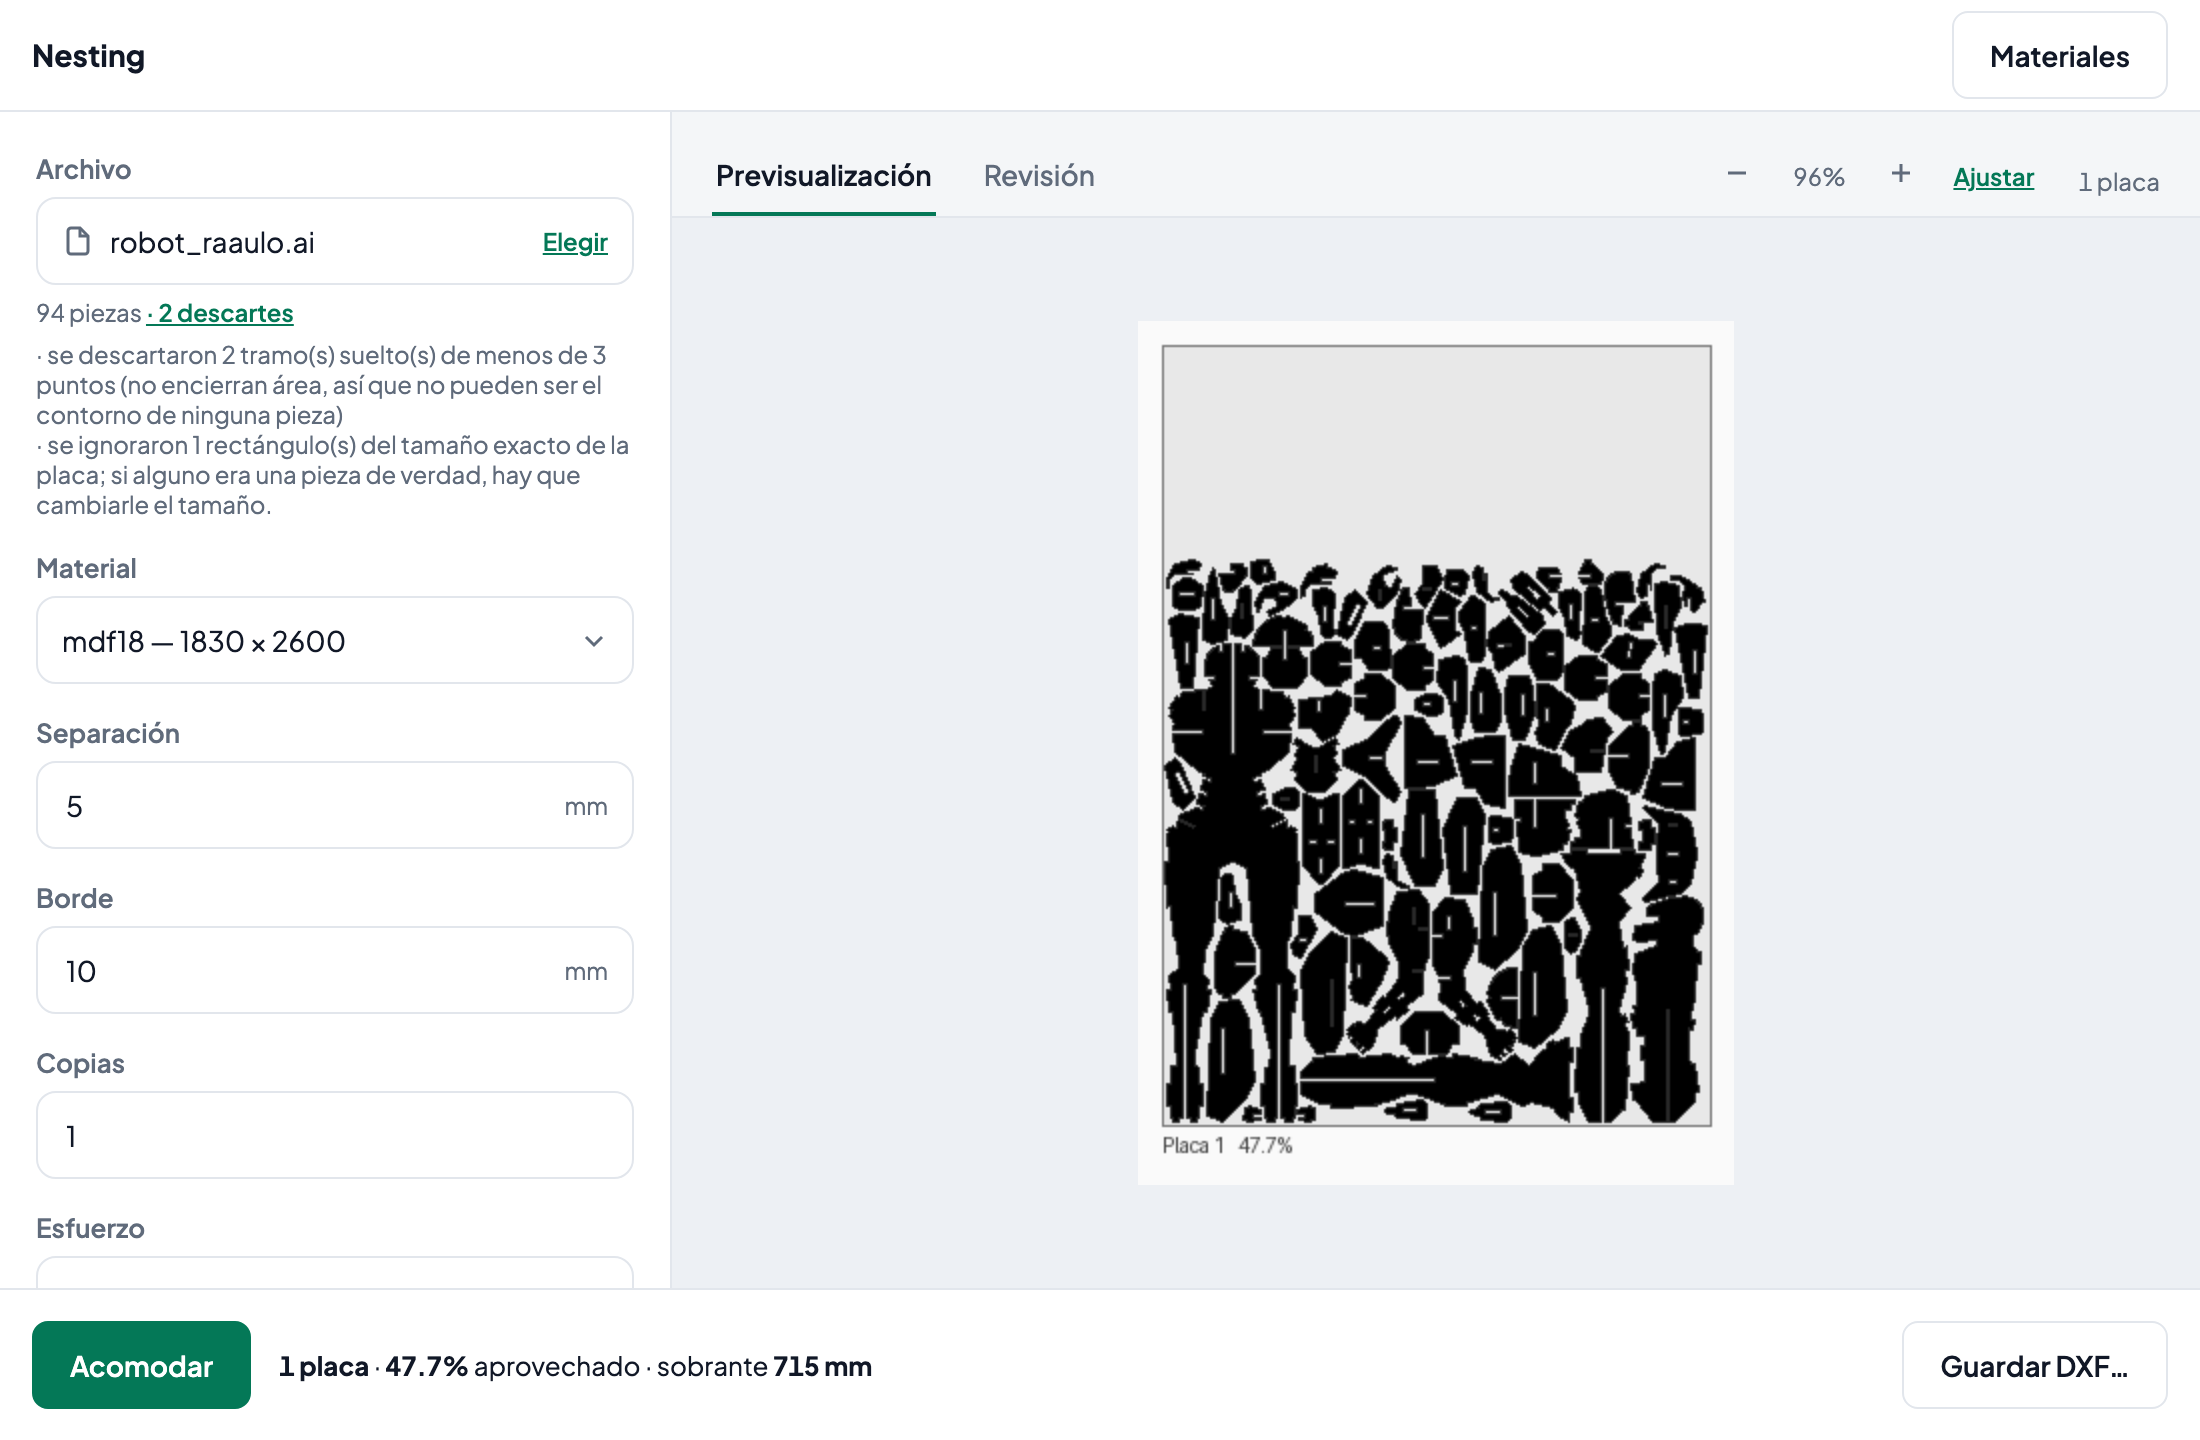
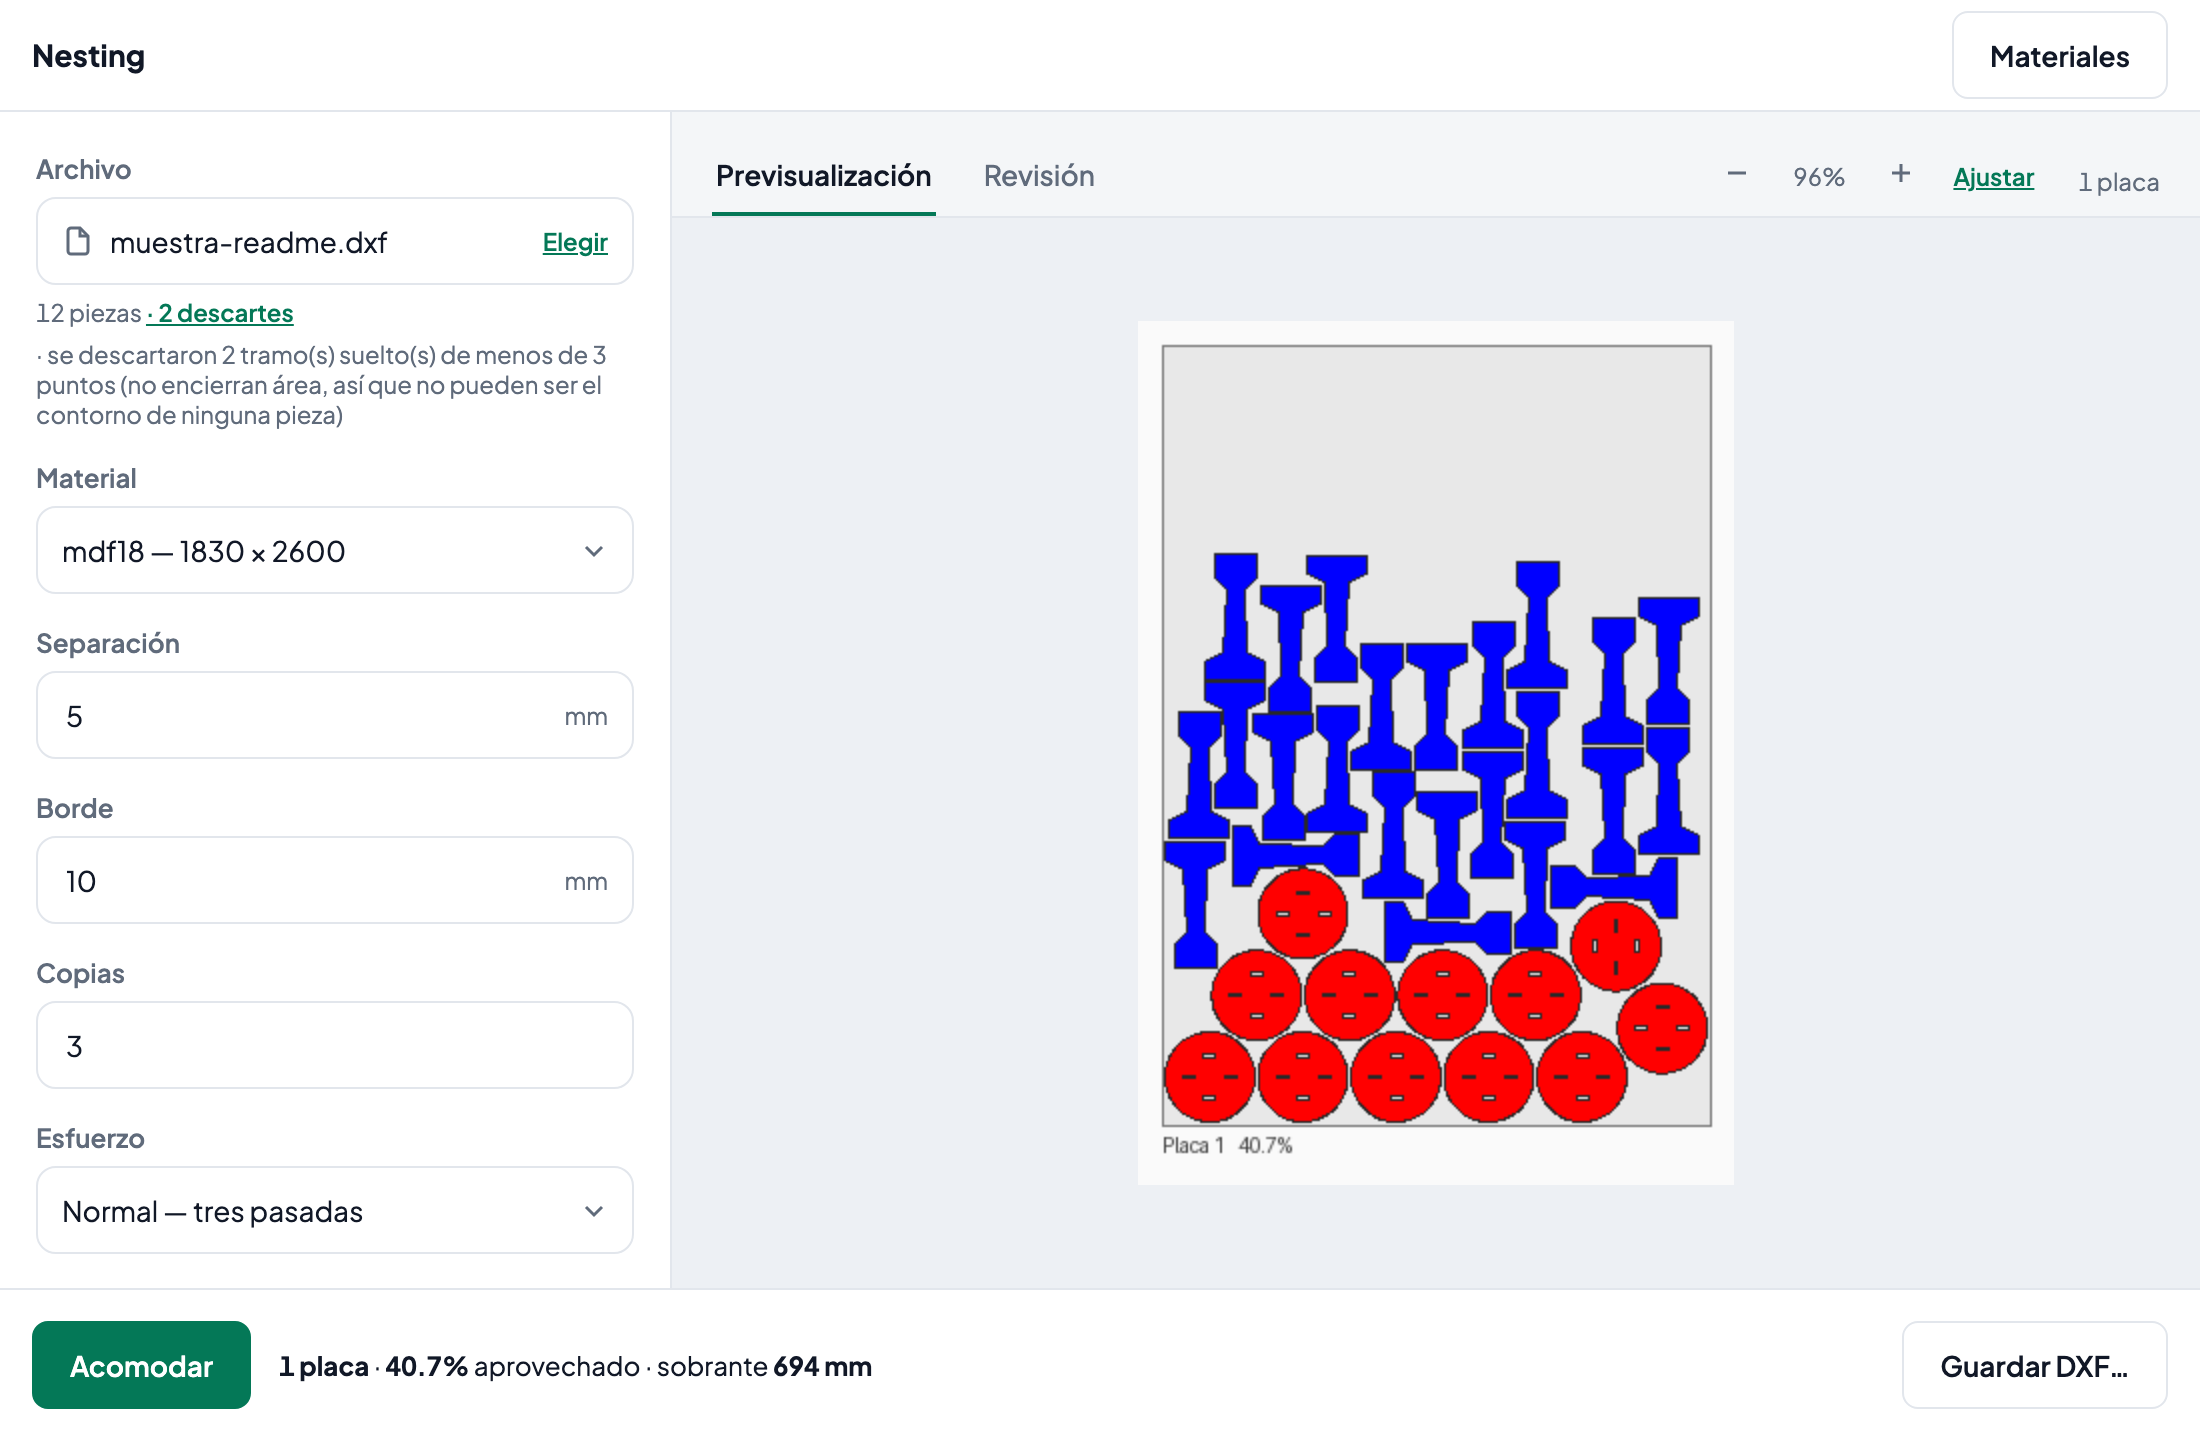
Las capturas del README, con un archivo generado en vez de un diseño real
Las anteriores mostraban robot_raaulo.ai, un diseño del dueño. La revisión de
privacidad fue justa al evaluarlo: a esa resolución no es fabricable, pero sí
identificable y aproximadamente re-dibujable. El .gitignore del proyecto dice
explícitamente que los archivos de entrada son trabajo del dueño y no tienen
por qué viajar a un servidor ajeno; una captura que los dibuja enteros va
contra esa misma idea.

Ahora es la banqueta sintética de bench/make_sample.py, con dos tramos
sueltos agregados a propósito para que la solapa Revisión tenga algo que
mostrar. El primer intento agregaba además un contorno abierto, pero con 1 mm
de luz eso no es un descarte sino un ERROR que aborta el análisis entero -- el
programa no adivina si lo querías cerrar -- y un rectángulo del tamaño de la
placa, que terminó tratado como una pieza que no entra.

La captura salió mejor que la original, de paso: los colores de capa del DXF
(asientos rojos, patas azules) hacen el acomodo mucho más legible.

Cuidado con lo que la imagen afirma: el resultado es de tres copias, así que
el bootstrap ahora también pone 3 en el campo Copias. Con el formulario en 1,
quien mirara la captura contaba 12 piezas y veía 36 formas dibujadas.

diff --git a/README.md b/README.md
@@ -65,10 +65,14 @@ para correrlo sobre un servidor sin pantalla.
 
 ![La pantalla principal: el archivo elegido, los parámetros y el acomodo terminado](docs/imagenes/pantalla.png)
 
-Un acomodo de verdad: 94 piezas de un `.ai` sobre una placa de MDF de
-1830 × 2600. Entraron todas en **una sola placa**, ocupando el 47.7% de la
-superficie, y —esto es lo que importa— la franja de **715 mm** que se ve libre
-arriba queda entera para el próximo trabajo.
+Un acomodo de verdad: las 12 piezas de una banqueta —asientos redondos y patas
+cóncavas—, tres copias de cada una, sobre una placa de MDF de 1830 × 2600.
+Entraron todas en **una sola placa**, ocupando el 40.7% de la superficie, y
+—esto es lo que importa— la franja de **694 mm** que se ve libre arriba queda
+entera para el próximo trabajo.
+
+El archivo de la captura lo genera `bench/make_sample.py`, así que podés
+reproducirla.
 
 El resultado dice tres cosas: **cuántas placas** hicieron falta, **qué
 porcentaje** de esa superficie quedó ocupado por piezas, y el **sobrante** —los
@@ -85,9 +89,10 @@ resultado a medias: el DXF no llega a escribirse.
 ![La solapa Revisión: los descartes marcados sobre el dibujo original, con una lupa y el motivo de cada uno](docs/imagenes/revision.png)
 
 Los descartes marcados **sobre tu propio dibujo**, con un círculo de color en el
-lugar exacto, una lupa por cada uno y el motivo escrito al lado: dos tramos
-sueltos que no encierran área y un rectángulo que resultó ser del tamaño exacto
-de la placa. Abajo, cuántos hubo de cada clase.
+lugar exacto, una lupa por cada uno y el motivo escrito al lado. Acá son dos
+tramos sueltos de 10 y 12 mm que no encierran área, así que no pueden ser el
+contorno de ninguna pieza; la lupa muestra dónde están y a qué escala. Abajo,
+cuántos hubo de cada clase.
 
 Esto aparece **al segundo de abrir el archivo**, sin acomodar nada. Es cuando
 sirve: todavía estás a tiempo de volver al original y corregirlo.
